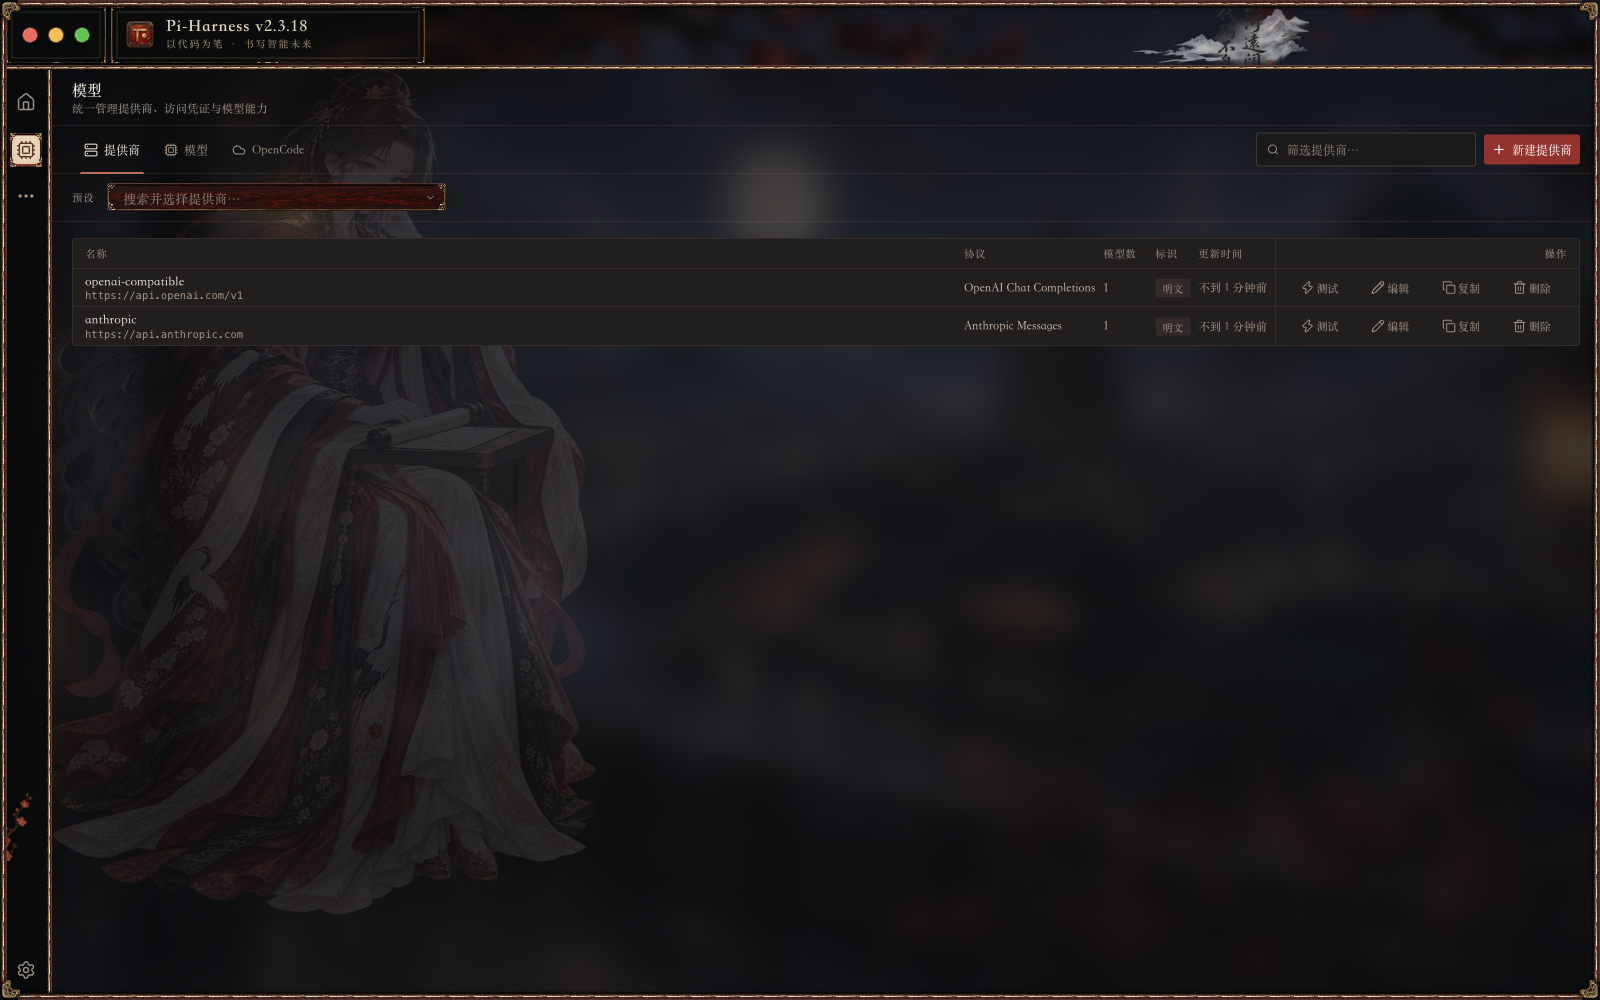
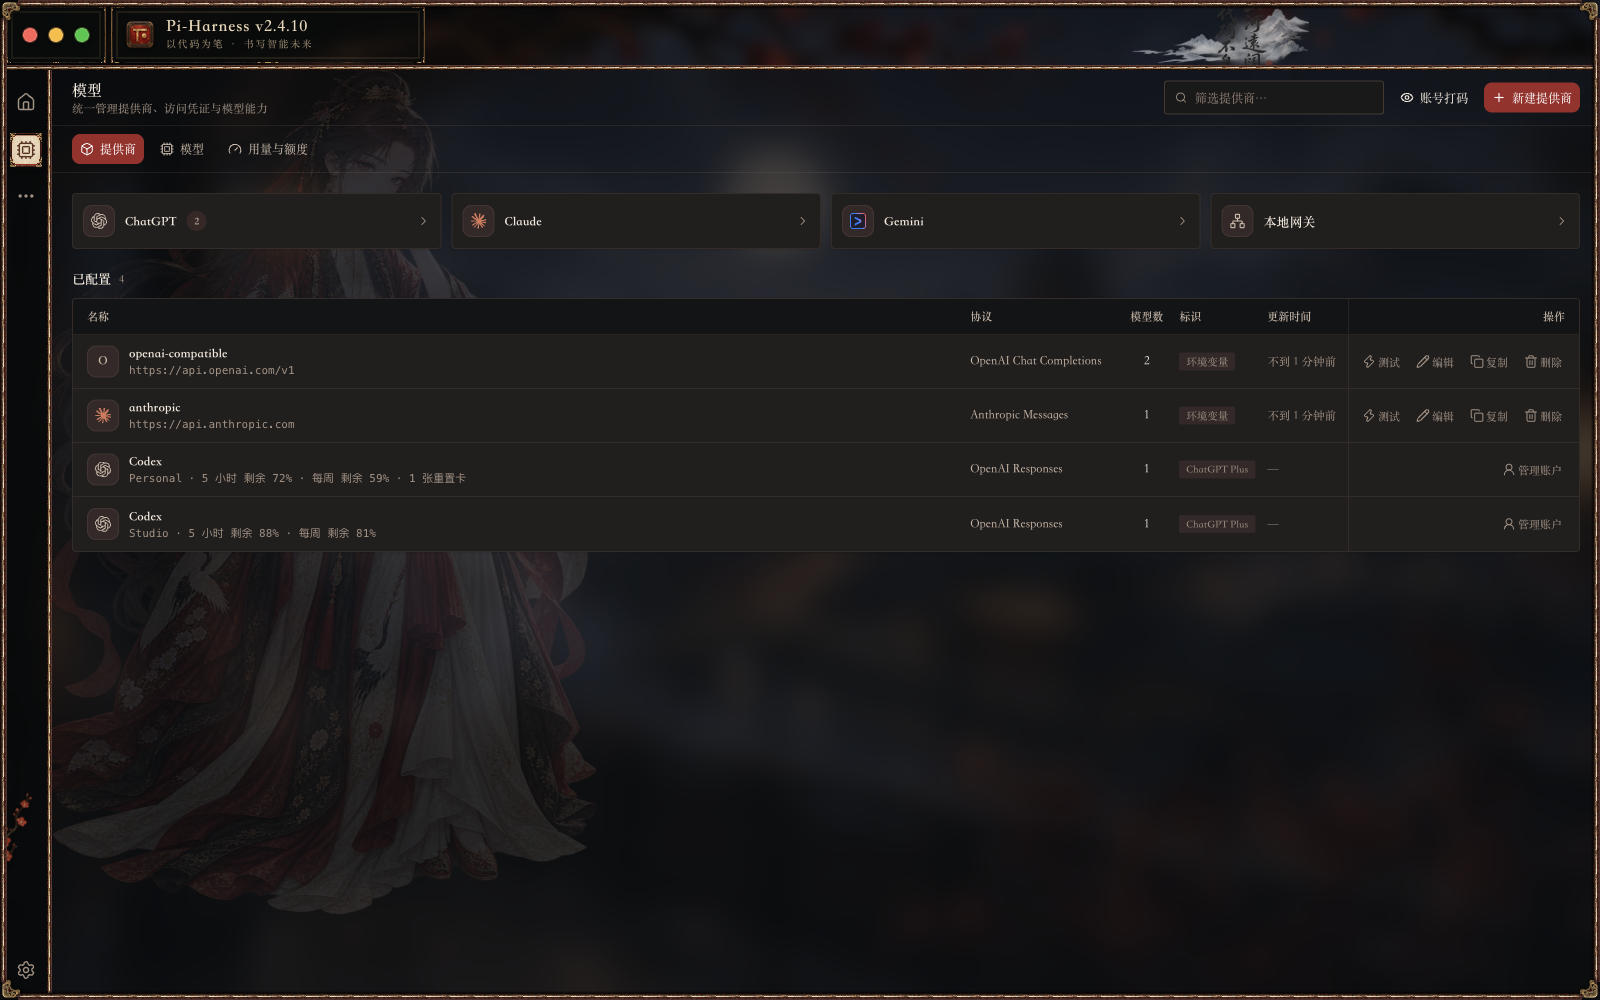
fix: refresh Models documentation

diff --git a/README.ru-RU.md b/README.ru-RU.md
@@ -280,8 +280,9 @@ flowchart TD
 
 | | |
 | :-- | :-- |
-| **Провайдеры** | Настраивайте совместимые с Pi провайдеры по шаблонам или собственным адресам, управляйте учётными данными, получайте список моделей там, где это поддерживается, проверяйте подключение и выбирайте модель чата |
-| **Вход через ChatGPT** | Подключите подписку ChatGPT в браузере и выбирайте модели этого аккаунта в чате. На странице провайдеров видны подключённый аккаунт, тариф и данные об использовании, если они доступны. |
+| **Провайдеры** | Настраивайте совместимые с Pi провайдеры по шаблонам или собственным адресам, управляйте учётными данными, получайте список моделей там, где это поддерживается, проверяйте подключение и выбирайте модель чата. На вкладке провайдеров есть быстрые ссылки на ChatGPT, Claude, Gemini и локальный шлюз. |
+| **Вход через ChatGPT** | Подключите подписку ChatGPT в браузере и выбирайте модели этого аккаунта в чате. Каждый подключённый аккаунт Codex можно отдельно настроить в списке провайдеров API, проверить остаток лимита и воспользоваться доступной картой сброса. |
+| **Модели, использование и лимиты** | Фильтруйте настроенные модели по провайдеру, выбирайте модель по умолчанию и просматривайте историю запросов и расход токенов. На странице использования также видны доступные данные об остатках на счетах API и лимитах подписок. |
 | **Бесплатные модели** | Выбирайте модели Kilo прямо в меню выбора модели в чате. Аккаунт и ключ API не требуются. Набор моделей и лимиты определяет Kilo. При первом выборе появится уведомление о конфиденциальности. |
 | **Изображения** | Используйте поддерживаемые модели изображений для создания изображений по тексту или их редактирования, затем скачивайте результат |
 | **Skills** | Просматривайте и редактируйте встроенные и локальные Skills. Введите `@` в поле сообщения, чтобы найти и вызвать установленный Skill |

diff --git a/README.ko-KR.md b/README.ko-KR.md
@@ -280,8 +280,9 @@ Claude Code, Codex(데스크톱과 보관된 대화 포함), Cursor, Cursor Agen
 
 | | |
 | :-- | :-- |
-| **제공자** | 프리셋이나 사용자 지정 엔드포인트로 Pi 호환 제공자를 설정하고, 인증 정보를 관리하며, 지원되는 경우 모델 목록을 불러오고, 연결을 테스트하고, 대화 모델을 선택합니다 |
-| **ChatGPT로 로그인** | 브라우저에서 ChatGPT 구독을 연결하고 대화에서 해당 계정의 모델을 선택하세요. 제공자 페이지에서 연결된 계정, 요금제 및 확인 가능한 사용량을 볼 수 있습니다. |
+| **제공자** | 프리셋이나 사용자 지정 엔드포인트로 Pi 호환 제공자를 설정하고, 인증 정보를 관리하며, 지원되는 경우 모델 목록을 불러오고, 연결을 테스트하고, 대화 모델을 선택합니다. 제공자 탭에서 ChatGPT, Claude, Gemini, 로컬 게이트웨이를 바로 열 수 있습니다. |
+| **ChatGPT로 로그인** | 브라우저에서 ChatGPT 구독을 연결하고 대화에서 해당 계정의 모델을 선택할 수 있습니다. 연결된 Codex 계정은 API 제공자와 같은 목록에서 개별적으로 관리할 수 있으며, 남은 사용 한도를 확인하고 사용 가능한 초기화 카드를 쓸 수 있습니다. |
+| **모델, 사용량 및 한도** | 구성된 모델을 제공자별로 필터링하고 기본 모델을 지정하며 기록된 요청과 토큰 사용량을 확인할 수 있습니다. 사용량 페이지에는 확인 가능한 API 잔액과 구독 한도도 표시됩니다. |
 | **무료 모델** | 대화의 모델 선택 메뉴에서 Kilo 모델을 바로 선택할 수 있습니다. 계정이나 API 키가 필요하지 않습니다. 모델의 제공 여부와 사용 한도는 Kilo에 따라 달라집니다. 처음 선택하면 개인정보 처리 안내가 표시됩니다. |
 | **이미지** | 지원하는 이미지 모델로 텍스트에서 이미지를 만들거나 이미지를 편집하고 결과를 다운로드합니다 |
 | **Skills** | 내장 및 로컬 Skills를 찾아보고 편집합니다. 입력창에 `@`를 입력해 설치된 Skill을 검색하고 호출합니다 |

diff --git a/README.fr-FR.md b/README.fr-FR.md
@@ -280,8 +280,9 @@ Ouvrez Architecture dans l’espace de travail pour explorer modules, dépendanc
 
 | | |
 | :-- | :-- |
-| **Fournisseurs** | Configurez des fournisseurs compatibles Pi à partir de préréglages ou d’adresses personnalisées, gérez les identifiants, récupérez les modèles lorsque le service le permet, testez la connexion et choisissez votre modèle de conversation |
-| **Se connecter avec ChatGPT** | Associez votre abonnement ChatGPT dans le navigateur, puis choisissez les modèles du compte dans le chat. La page des fournisseurs affiche le compte associé, le forfait et les données d’utilisation disponibles. |
+| **Fournisseurs** | Configurez des fournisseurs compatibles Pi à partir de préréglages ou d’adresses personnalisées, gérez les identifiants, récupérez les modèles lorsque le service le permet, testez la connexion et choisissez votre modèle de conversation. L’onglet des fournisseurs propose des raccourcis vers ChatGPT, Claude, Gemini et la passerelle locale. |
+| **Se connecter avec ChatGPT** | Associez votre abonnement ChatGPT dans le navigateur, puis choisissez les modèles du compte dans le chat. Gérez chaque compte Codex associé dans la liste des fournisseurs API, consultez son quota restant et utilisez une carte de réinitialisation si elle est disponible. |
+| **Modèles, utilisation et quotas** | Filtrez les modèles configurés par fournisseur, choisissez le modèle par défaut et consultez les requêtes enregistrées ainsi que les jetons utilisés. La page d’utilisation affiche aussi les soldes API et les quotas d’abonnement disponibles. |
 | **Modèles gratuits** | Sélectionnez un modèle Kilo directement dans le sélecteur du chat. Aucun compte ni clé API n’est nécessaire. La disponibilité et les limites dépendent de Kilo. Un avis de confidentialité s’affiche lors de la première sélection. |
 | **Images** | Utilisez les modèles d’image compatibles pour générer ou modifier des images, puis téléchargez les résultats |
 | **Skills** | Parcourez et modifiez les Skills intégrés et locaux. Saisissez `@` dans le champ de message pour rechercher et invoquer un Skill installé |

diff --git a/README.de-DE.md b/README.de-DE.md
@@ -280,8 +280,9 @@ Durchsuche gemeinsam die Verläufe von Claude Code, Codex (einschließlich Deskt
 
 | | |
 | :-- | :-- |
-| **Anbieter** | Richte Pi-kompatible Anbieter mit Vorlagen oder eigenen Endpunkten ein, verwalte Zugangsdaten, lade Modelllisten, wo unterstützt, teste Verbindungen und wähle dein Chatmodell |
-| **Mit ChatGPT anmelden** | Verbinde dein ChatGPT-Abonnement im Browser und wähle die Modelle des Kontos im Chat aus. Auf der Anbieterseite siehst du das verbundene Konto, den Tarif und verfügbare Nutzungsdaten. |
+| **Anbieter** | Richte Pi-kompatible Anbieter mit Vorlagen oder eigenen Endpunkten ein, verwalte Zugangsdaten, lade Modelllisten, wo unterstützt, teste Verbindungen und wähle dein Chatmodell. Der Anbieter-Tab bietet Schnellzugriffe auf ChatGPT, Claude, Gemini und das lokale Gateway. |
+| **Mit ChatGPT anmelden** | Verbinde dein ChatGPT-Abonnement im Browser und wähle die Modelle des Kontos im Chat aus. Verwalte jedes verbundene Codex-Konto in der Liste der API-Anbieter, sieh das verbleibende Kontingent ein und nutze eine verfügbare Reset-Karte. |
+| **Modelle, Nutzung und Kontingente** | Filtere konfigurierte Modelle nach Anbieter, wähle das Standardmodell und prüfe aufgezeichnete Anfragen und den Tokenverbrauch. Auf der Nutzungsseite siehst du auch verfügbare API-Guthaben und Abonnementkontingente. |
 | **Kostenlose Modelle** | Wähle ein Kilo-Modell direkt in der Modellauswahl im Chat. Ein Konto oder API-Schlüssel ist nicht erforderlich. Verfügbarkeit und Nutzungslimits hängen von Kilo ab. Bei der ersten Auswahl erscheint ein Datenschutzhinweis. |
 | **Bilder** | Nutze unterstützte Bildmodelle, um Bilder aus Text zu erzeugen oder zu bearbeiten, und lade die Ergebnisse herunter |
 | **Skills** | Durchsuche und bearbeite integrierte und lokale Skills. Gib `@` im Eingabefeld ein, um einen installierten Skill zu suchen und aufzurufen |

diff --git a/README.md b/README.md
@@ -287,8 +287,9 @@ Open Architecture in Workspace to explore modules, dependencies, entrypoints and
 
 | | |
 | :-- | :-- |
-| **Providers** | Configure Pi-compatible providers with presets or custom endpoints, manage credentials, discover models where supported, test connections and choose your chat model |
-| **Sign in with ChatGPT** | Connect your ChatGPT subscription in the browser and choose its models in chat. The Providers page shows the connected account, plan and usage when available. |
+| **Providers** | Configure Pi-compatible providers with presets or custom endpoints, manage credentials, discover models where supported, test connections and choose your chat model. The Providers tab has shortcuts for ChatGPT, Claude, Gemini and the local gateway. |
+| **Sign in with ChatGPT** | Connect your ChatGPT subscription in the browser and choose its models in chat. Manage each connected Codex account alongside API providers, see its remaining allowance and use a reset card when available. |
+| **Models, usage and quota** | Filter configured models by provider, choose the default model and review recorded requests and token usage. The usage page also shows available API balances and subscription quotas. |
 | **Free Models** | Choose a Kilo model directly in the chat model picker. No account or API key is required. Availability and limits depend on Kilo. The first selection shows a privacy notice. |
 | **Images** | Use supported image models for text-to-image or image editing, then download the results |
 | **Skills** | Browse built-in and local Skills and edit them. Type `@` in the composer to search and invoke an installed Skill |

diff --git a/README.zh-CN.md b/README.zh-CN.md
@@ -280,8 +280,9 @@ flowchart TD
 
 | | |
 | :-- | :-- |
-| **Provider** | 通过预设或自定义地址配置 Pi 兼容 Provider，管理凭证、获取服务支持的模型列表、测试连接并选择聊天模型 |
-| **ChatGPT 授权** | 在浏览器中关联 ChatGPT 订阅，然后在聊天中选择该账户的模型。提供商页面可查看已关联账户、套餐及可获取的用量。 |
+| **Provider** | 通过预设或自定义地址配置 Pi 兼容 Provider，管理凭证、获取服务支持的模型列表、测试连接并选择聊天模型。提供商标签页顶部可快速打开 ChatGPT、Claude、Gemini 和本地网关。 |
+| **ChatGPT 授权** | 在浏览器中关联 ChatGPT 订阅，再在聊天中选择该账户的模型。每个已关联的 Codex 账户与 API 提供商同列，可单独管理、查看剩余额度，并在有可用重置卡时使用。 |
+| **模型、用量与额度** | 按提供商筛选已配置的模型、设置默认模型，并查看已记录的请求与 Token 用量。用量页面还显示可获取的 API 余额与订阅额度。 |
 | **免费模型** | 直接在聊天模型选择器中选择 Kilo 模型，无需注册或填写 API Key。可用模型和额度以 Kilo 为准。首次选择时会显示隐私提示。 |
 | **图像** | 支持的图像模型可用于文生图或图片编辑，结果可以下载 |
 | **Skills** | 浏览并编辑内置与本地 Skills。在输入框键入 `@`，即可搜索并调用已安装的 Skill |

diff --git a/README.zh-TW.md b/README.zh-TW.md
@@ -280,8 +280,9 @@ flowchart TD
 
 | | |
 | :-- | :-- |
-| **Provider** | 透過預設或自訂位址設定 Pi 相容 Provider，管理憑證、在支援時取得模型清單、測試連線並選擇聊天模型 |
-| **ChatGPT 授權** | 在瀏覽器中連結 ChatGPT 訂閱，然後在聊天中選擇該帳戶的模型。供應商頁面可查看已連結帳戶、方案及可取得的用量。 |
+| **Provider** | 透過預設或自訂位址設定 Pi 相容 Provider，管理憑證、在支援時取得模型清單、測試連線並選擇聊天模型。供應商分頁頂端可快速開啟 ChatGPT、Claude、Gemini 和本機閘道。 |
+| **ChatGPT 授權** | 在瀏覽器中連結 ChatGPT 訂閱，再於聊天中選擇該帳戶的模型。每個已連結的 Codex 帳戶與 API 供應商同列，可個別管理、查看剩餘額度，並在有可用重設卡時使用。 |
+| **模型、用量與額度** | 依供應商篩選已設定的模型、設定預設模型，並查看已記錄的請求與 Token 用量。用量頁面也顯示可取得的 API 餘額與訂閱額度。 |
 | **免費模型** | 直接在聊天模型選擇器中選擇 Kilo 模型，無需註冊或輸入 API Key。可用模型和額度以 Kilo 為準。首次選擇時會顯示隱私提示。 |
 | **圖片** | 使用支援的影像模型進行文字生圖或圖片編輯，並下載結果 |
 | **Skills** | 瀏覽並編輯內建與本機 Skills。在輸入框鍵入 `@` 即可搜尋並呼叫已安裝的 Skill |

diff --git a/docs/README.md b/docs/README.md
@@ -4,9 +4,9 @@ Browse the current Pi-Harness interface, desktop companion, themes, and communit
 
 Pi-Harness 截图按功能界面、主题展示和社区资源分类，点击图片链接可查看原图。
 
-The provider, ChatGPT sign-in, and Free Models screenshots were refreshed on 2026-11-15 using Pi-Harness 2.4.8. The account and usage figures are examples.
+The Models page screenshots were refreshed on 2026-11-17 using Pi-Harness 2.4.10. The ChatGPT sign-in and Free Models screenshots are from 2.4.8. Account and usage figures are examples.
 
-提供商、ChatGPT 授权和免费模型截图于 2026-11-15 使用 Pi-Harness 2.4.8 更新。截图中的账户和用量为示例。
+「模型」页截图于 2026-11-17 使用 Pi-Harness 2.4.10 更新。ChatGPT 授权和免费模型截图来自 2.4.8。截图中的账户和用量为示例。
 
 [English](../README.md) · [简体中文](../README.zh-CN.md) · [繁體中文](../README.zh-TW.md) · [日本語](../README.ja-JP.md) · [한국어](../README.ko-KR.md) · [Русский](../README.ru-RU.md) · [Français](../README.fr-FR.md) · [Deutsch](../README.de-DE.md)
 
